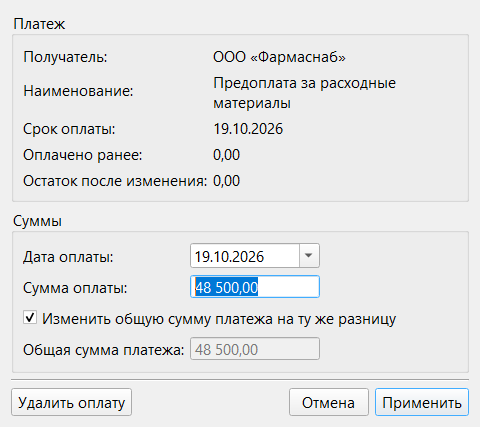
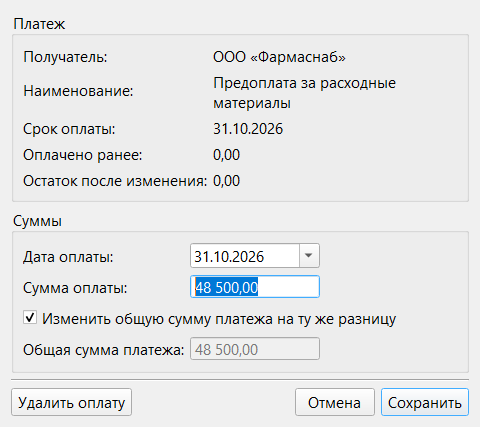
manual: update

Changed region(s): [[0.5938, 0.9133, 0.9062, 0.9742], [0.4375, 0.274, 0.5, 0.3349], [0.4062, 0.5785, 0.4375, 0.6393]]

diff --git a/manual/12-planfact.html b/manual/12-planfact.html
@@ -18,7 +18,7 @@ th { color: #1f3a5f; }
 </head>
 <body>
 <table width="100%" cellspacing="0" cellpadding="0" style="margin-top: 0px; margin-bottom: 10px;"><tr><td style="border-bottom: 1px solid #d9e0e9;" style="border-bottom: 1px solid #d9e0e9;"><h1 id="s1">Раздел 12. План-факт и графики</h1></td></tr></table>
-<p>Кнопка «План-факт» открывает три инструмента: «Финансовый план» (плановые суммы на год), «Исполнение финансового плана» (сравнение плана с оплатами за период) и «Графики» (динамика задолженности и платежная дисциплина). Нажатие на саму кнопку открывает «Исполнение финансового плана».</p>
+<p>Кнопка «План-факт» открывает три инструмента: «Финансовый план» (плановые суммы на год), «Исполнение финансового плана» (сравнение плана с оплатами за период) и «Графики» (динамика задолженности, платежная дисциплина и структура расходов). Нажатие на саму кнопку открывает «Исполнение финансового плана».</p>
 <table width="100%" cellspacing="0" cellpadding="0" style="margin-top: 24px; margin-bottom: 10px;"><tr><td style="border-bottom: 1px solid #d9e0e9;" style="border-bottom: 1px solid #d9e0e9;"><h2 id="s2">Финансовый план</h2></td></tr></table>
 <p>Плановые суммы вводятся по месяцам и статьям.</p>
 <p align="center" style="margin-top: 10px; margin-bottom: 4px; line-height: 100%;"><img alt="Окно «Финансовый план»" src="images/12-planfact/finplan.png" /></p>
@@ -41,7 +41,7 @@ th { color: #1f3a5f; }
 <p align="center" style="margin-top: 0px; margin-bottom: 22px; line-height: 100%;"><span style="color: #6b7280; font-size: 9.5pt;"><em>Рис. 37. Выбор отчёта и периода.</em></span></p>
 <p>Вверху выбирается отчёт: «Исполнение финансового плана» или «Перечень затрат». Период — «За месяц», «За месяцы» или «За период»; начало и конец должны быть в одном году.</p>
 <h3 id="s5">Шаг 2. Сведения о поступлениях</h3>
-<p>Программа не знает остатка на счёте и поступлений: она ведёт только платежи. Поэтому после «Далее» вы вводите эти числа сами.</p>
+<p>Программа не знает остатка на счёте и поступлений: она ведёт только платежи. Поэтому после «Открыть» вы вводите эти числа сами.</p>
 <p align="center" style="margin-top: 10px; margin-bottom: 4px; line-height: 100%;"><img alt="Сведения о поступлениях" src="images/12-planfact/inflow.png" /></p>
 <p align="center" style="margin-top: 0px; margin-bottom: 22px; line-height: 100%;"><span style="color: #6b7280; font-size: 9.5pt;"><em>Рис. 38. Сведения о поступлениях.</em></span></p>
 <p>Числа запоминаются для такого же периода (если введено хотя бы одно ненулевое значение) и подставляются при следующем открытии.</p>
@@ -81,9 +81,9 @@ th { color: #1f3a5f; }
 <h3 id="s7">Перечень затрат</h3>
 <p>Список расходов за период без плана и без шага 2: два столбца, «Сумма» и «Сумма без НДС» (по ставке НДС платежа). Строки разворачиваются так же; скрытые платежи — «Другие».</p>
 <h3 id="s8">Экспорт отчета</h3>
-<p>«Экспорт в XLS» и «Экспорт в PDF» сохраняют таблицу как на экране, <strong>без развёрнутых списков оплат</strong>; PDF нужен установленный Microsoft Excel (как в <a href="11-export.html">разделе 11</a>).</p>
+<p>«Экспорт в Excel» и «Экспорт в PDF» сохраняют таблицу как на экране, <strong>без развёрнутых списков оплат</strong>; PDF нужен установленный Microsoft Excel (как в <a href="11-export.html">разделе 11</a>).</p>
 <table width="100%" cellspacing="0" cellpadding="0" style="margin-top: 24px; margin-bottom: 10px;"><tr><td style="border-bottom: 1px solid #d9e0e9;" style="border-bottom: 1px solid #d9e0e9;"><h2 id="s9">Графики</h2></td></tr></table>
-<p>«Графики» открывает окно «Построить график» с двумя вариантами: «Динамика задолженности» (как менялась сумма неоплаченных платежей и какая её часть просрочена) и «Платежная дисциплина» (насколько вовремя оплачивались платежи, см. ниже).</p>
+<p>«Графики» открывает окно «Построить график или отчет» с тремя вариантами: «Динамика задолженности» (как менялась сумма неоплаченных платежей и какая её часть просрочена), «Платежная дисциплина» (насколько вовремя оплачивались платежи, см. ниже) и «Структура расходов» (на что ушли деньги, см. ниже). Выберите вариант, укажите период и нажмите «Открыть».</p>
 <h3 id="s10">Динамика задолженности</h3>
 <p align="center" style="margin-top: 10px; margin-bottom: 4px; line-height: 100%;"><img alt="График «Задолженность»" src="images/13-charts/debt.png" /></p>
 <p align="center" style="margin-top: 0px; margin-bottom: 22px; line-height: 100%;"><span style="color: #6b7280; font-size: 9.5pt;"><em>Рис. 40. График задолженности за период с 15.08 по 14.10 по всем категориям.</em></span></p>
@@ -136,7 +136,22 @@ th { color: #1f3a5f; }
 </ul>
 <p><strong>Фильтры слева.</strong> Период (задаётся при построении графика, в отчёте только показан), часть названия получателя и категории (если ничего не выбрано — учитываются все). Пункт «Текущая деятельность (все)» выбирает и снимает сразу все категории 1.х. «Сбросить фильтры» очищает получателя, категории и фильтр по столбцу графика. Категории и получатель действуют и на вкладку «Неоплаченные просроченные», период — нет.</p>
 <p><strong>Экспорт в Excel.</strong> Кнопка «Экспорт в Excel...» сохраняет все вкладки в один файл: лист на каждую вкладку плюс листы «Сводка» (период, фильтры, показатели) и «Распределение» (данные графика). Таблицы выгружаются с учётом фильтра по столбцу графика.</p>
-<table width="100%" cellspacing="0" cellpadding="0" style="margin-top: 24px; margin-bottom: 10px;"><tr><td style="border-bottom: 1px solid #d9e0e9;" style="border-bottom: 1px solid #d9e0e9;"><h2 id="s12">Что может пойти не так</h2></td></tr></table>
+<h3 id="s12">Структура расходов</h3>
+<p>Отчёт показывает, на какие категории ушли деньги. Берутся <strong>оплаты</strong> с датой оплаты внутри периода; возвраты вычитаются из сумм своих категорий.</p>
+<p><strong>Что в окне.</strong></p>
+<ul>
+<li><strong>Четыре плитки сверху.</strong> Расходы за период (с числом оплат и суммой возвратов); средний расход в месяц и самый затратный месяц; крупнейшая категория с долей; изменение к прошлому периоду (▲ расходы выросли, ▼ снизились).</li>
+<li><strong>График.</strong> Горизонтальные столбцы по категориям, от большей суммы к меньшей, с суммой и долей от всех расходов. Щелчок по столбцу оставляет в таблицах только эту категорию; повторный щелчок снимает фильтр.</li>
+<li><strong>Вкладки.</strong> «По получателям», «По месяцам» (график с накоплением по категориям и таблица) и «Оплаты» (каждая оплата отдельно, в названии вкладки их число). Двойной щелчок по оплате открывает её платеж.</li>
+</ul>
+<p><strong>Фильтры слева.</strong> Период (задаётся при построении отчёта, здесь только показан), часть названия получателя и категории (если ничего не выбрано — учитываются все). Галочки «Без финансовой деятельности» и «Без инвестиционной деятельности» исключают эти разделы. «Сбросить фильтры» очищает получателя, категории, эти галочки и фильтр по столбцу графика.</p>
+<p><strong>Как показывать.</strong></p>
+<ul>
+<li>«Мелкие категории - в «Прочее»» объединяет категории с долей меньше 2% в один столбец (если таких две и больше); состав виден в подсказке.</li>
+<li>«Сравнить с прошлым периодом» добавляет серые столбцы и столбцы таблиц «Пред. период» и «Изменение». По умолчанию прошлый период — столько же дней (или месяцев) сразу перед выбранным; его даты можно изменить.</li>
+</ul>
+<p><strong>Экспорт в Excel.</strong> Кнопка «Экспорт в Excel...» сохраняет листы «Сводка», «По категориям», «По получателям», «По месяцам» и «Оплаты»; таблицы выгружаются с учётом фильтра по столбцу графика.</p>
+<table width="100%" cellspacing="0" cellpadding="0" style="margin-top: 24px; margin-bottom: 10px;"><tr><td style="border-bottom: 1px solid #d9e0e9;" style="border-bottom: 1px solid #d9e0e9;"><h2 id="s13">Что может пойти не так</h2></td></tr></table>
 <table width="100%" cellspacing="0" cellpadding="8" style="border-collapse: collapse; margin-top: 18px; margin-bottom: 18px;">
 <thead>
 <tr>

diff --git a/manual/13-settings.html b/manual/13-settings.html
@@ -20,7 +20,7 @@ th { color: #1f3a5f; }
 <table width="100%" cellspacing="0" cellpadding="0" style="margin-top: 0px; margin-bottom: 10px;"><tr><td style="border-bottom: 1px solid #d9e0e9;" style="border-bottom: 1px solid #d9e0e9;"><h1 id="s1">Раздел 13. Настройки</h1></td></tr></table>
 <p>Окно «Настройки» открывается кнопкой «Настройки» на панели инструментов. Разделы окна — список слева.</p>
 <ul>
-<li><strong>«ОК»</strong> сохраняет все разделы и сразу применяет их, <strong>«Отмена»</strong> отбрасывает всё. Исключение — перечень должностей: он сохраняется сразу.</li>
+<li><strong>«Сохранить»</strong> сохраняет все разделы и сразу применяет их, <strong>«Отмена»</strong> отбрасывает всё. Исключение — перечень должностей: он сохраняется сразу.</li>
 <li>Настройки синхронизации — в меню кнопки синхронизации (<a href="15-sync.html">раздел 15</a>).</li>
 </ul>
 <table width="100%" cellspacing="0" cellpadding="0" style="margin-top: 6px; margin-bottom: 18px;"><tr><td width="5" bgcolor="#d98a00"></td><td bgcolor="#fff6e3" style="padding: 10px 16px 0px 16px;">
@@ -55,7 +55,7 @@ th { color: #1f3a5f; }
 </tr>
 </tbody>
 </table>
-<p>По умолчанию просроченные платежи выделены красным текстом, сегодняшние — полужирным. Те же цвета попадают в экспорт (<a href="11-export.html">раздел 11</a>).</p>
+<p>У просроченных и сегодняшних платежей цвет текста и жирность применяются только к столбцам «Срок оплаты» и «Остаток», а заливка — ко всей строке. По умолчанию у просроченных платежей эти столбцы красные, у сегодняшних — полужирные. Те же цвета попадают в экспорт (<a href="11-export.html">раздел 11</a>).</p>
 <table width="100%" cellspacing="0" cellpadding="0" style="margin-top: 24px; margin-bottom: 10px;"><tr><td style="border-bottom: 1px solid #d9e0e9;" style="border-bottom: 1px solid #d9e0e9;"><h2 id="s3">Таблица</h2></td></tr></table>
 <p align="center" style="margin-top: 10px; margin-bottom: 4px; line-height: 100%;"><img alt="Раздел «Таблица»" src="images/14-settings/table.png" /></p>
 <p align="center" style="margin-top: 0px; margin-bottom: 22px; line-height: 100%;"><span style="color: #6b7280; font-size: 9.5pt;"><em>Рис. 42. Раздел «Таблица».</em></span></p>
@@ -90,7 +90,7 @@ th { color: #1f3a5f; }
 <p>Календарь нужен для расчёта сроков оплаты (<a href="07-payment-terms.html">раздел 7</a>). Без внесённых дат все будни рабочие, а суббота и воскресенье выходные.</p>
 <ul>
 <li><strong>Год.</strong> Прошлый, текущий и следующий; для каждого года свои списки.</li>
-<li><strong>Списки.</strong> Дата добавляется кнопкой «+», убирается кнопкой «−» или клавишей <strong>Del</strong>. Изменения сохраняются по «ОК».</li>
+<li><strong>Списки.</strong> Дата добавляется кнопкой «+», убирается кнопкой «−» или клавишей <strong>Del</strong>. Изменения сохраняются по «Сохранить».</li>
 <li><strong>Какие дни в какой список.</strong> В «Праздничные» — только будни (Пн–Пт), в «Рабочие банковские» и «Рабочие небанковские» — только Сб и Вс. Одна дата не может быть в двух списках. Что означает каждый список — в <a href="07-payment-terms.html">разделе 7</a>.</li>
 </ul>
 <table width="100%" cellspacing="0" cellpadding="0" style="margin-top: 24px; margin-bottom: 10px;"><tr><td style="border-bottom: 1px solid #d9e0e9;" style="border-bottom: 1px solid #d9e0e9;"><h2 id="s5">Парсер выписки</h2></td></tr></table>
@@ -141,7 +141,7 @@ th { color: #1f3a5f; }
 <h3 id="s8">Должности</h3>
 <p>Должности добавляются, переименовываются и удаляются (<strong>Del</strong>) в выбранном подразделении; название не должно повторяться внутри подразделения.</p>
 <table width="100%" cellspacing="0" cellpadding="0" style="margin-top: 6px; margin-bottom: 18px;"><tr><td width="5" bgcolor="#d98a00"></td><td bgcolor="#fff6e3" style="padding: 10px 16px 0px 16px;">
-<p>⚠ <strong><font color="#d98a00">Внимание.</font></strong> Изменения во вкладке «Должности» сохраняются сразу, «Отмена» их не вернёт. При удалении должности сотрудники теряют привязку к ней и остаются в своём подразделении. Сотрудники, добавленные или изменённые во вкладке «Сотрудники», сохраняются только по «ОК».</p>
+<p>⚠ <strong><font color="#d98a00">Внимание.</font></strong> Изменения во вкладке «Должности» сохраняются сразу, «Отмена» их не вернёт. При удалении должности сотрудники теряют привязку к ней и остаются в своём подразделении. Сотрудники, добавленные или изменённые во вкладке «Сотрудники», сохраняются только по «Сохранить».</p>
 </td></tr></table>
 <table width="100%" cellspacing="0" cellpadding="0" style="margin-top: 24px; margin-bottom: 10px;"><tr><td style="border-bottom: 1px solid #d9e0e9;" style="border-bottom: 1px solid #d9e0e9;"><h2 id="s9">Хранение</h2></td></tr></table>
 <p align="center" style="margin-top: 10px; margin-bottom: 4px; line-height: 100%;"><img alt="Раздел «Хранение»" src="images/14-settings/storage.png" /></p>
@@ -238,7 +238,7 @@ th { color: #1f3a5f; }
 <tr bgcolor="#f7f9fc">
 <td style="border-bottom: 1px solid #d9e0e9;">«Не удалось сохранить данные персонала (подробности см. в логе)»</td>
 <td style="border-bottom: 1px solid #d9e0e9;">Список сотрудников не записался. Остальные настройки к этому моменту уже сохранены</td>
-<td style="border-bottom: 1px solid #d9e0e9;">Нажмите «ОК» ещё раз; если не помогает, обратитесь к ответственному за программу</td>
+<td style="border-bottom: 1px solid #d9e0e9;">Нажмите «Сохранить» ещё раз; если не помогает, обратитесь к ответственному за программу</td>
 </tr>
 <tr>
 <td style="border-bottom: 1px solid #d9e0e9;">«При попытке восстановления произошла ошибка (подробности см. в логе)»</td>

diff --git a/manual/15-sync.html b/manual/15-sync.html
@@ -27,7 +27,7 @@ th { color: #1f3a5f; }
 <p>Изменения доходят до другого пользователя только через общую базу: пока вы их не «отправили», коллега их не увидит.</p>
 <p>Синхронизируется вся база: платежи, оплаты, контрагенты, договоры, финансовый план и исполнение плана, а также «Календарь», «Парсер выписки» и «Персонал» из окна «Настройки» (<a href="13-settings.html">раздел 13</a>). «Отображение», «Таблица», «Хранение» и настройки синхронизации на каждом устройстве свои.</p>
 <table width="100%" cellspacing="0" cellpadding="0" style="margin-top: 24px; margin-bottom: 10px;"><tr><td style="border-bottom: 1px solid #d9e0e9;" style="border-bottom: 1px solid #d9e0e9;"><h2 id="s3">Кнопка синхронизации</h2></td></tr></table>
-<p>Кнопка справа на панели инструментов показывает состояние и запускает синхронизацию. Стрелка справа от неё открывает меню: «Синхронизировать сейчас», «Отказаться от моих изменений…» и «Настройки синхронизации…».</p>
+<p>Кнопка справа на панели инструментов показывает состояние и запускает синхронизацию. Стрелка справа от неё открывает меню: «Синхронизировать сейчас», «Отказаться от моих изменений…», «Показать полученные изменения…» (снова открывает окно с итогом последнего подтягивания или объединения; пока их не было — недоступно) и «Настройки синхронизации…».</p>
 <p align="center" style="margin-top: 10px; margin-bottom: 4px; line-height: 100%;"><img alt="Состояния кнопки синхронизации" src="images/16-sync/button-states.png" /></p>
 <p align="center" style="margin-top: 0px; margin-bottom: 22px; line-height: 100%;"><span style="color: #6b7280; font-size: 9.5pt;"><em>Рис. 51. Состояния кнопки синхронизации: «выключена», «данные актуальны», «есть неотправленные», «нет связи», «КОНФЛИКТ».</em></span></p>
 <p>Если синхронизация выключена, нажатие на кнопку открывает окно настроек. В подсказке видны время последней проверки, дата и автор последней отправки, а при проблеме и её причина.</p>
@@ -124,7 +124,7 @@ th { color: #1f3a5f; }
 <li><strong>По таймеру</strong>: каждые 5 минут по умолчанию (меняется в настройках).</li>
 <li><strong>После паузы в работе</strong>: если вы внесли изменения и минуту (по умолчанию) ничего не нажимали, программа отправляет их.</li>
 <li><strong>Вручную</strong>: кнопка, «Синхронизировать сейчас» или <strong>F5</strong>.</li>
-<li><strong>При закрытии</strong>: если есть неотправленные изменения, программа пробует отправить их перед выходом, при необходимости объединив с изменениями коллеги (см. «Автоматическое объединение»).</li>
+<li><strong>При закрытии</strong>: если есть неотправленные изменения, программа пробует отправить их перед выходом, при необходимости объединив с изменениями коллеги (см. «Автоматическое объединение»). Пока идёт синхронизация, закрыть программу нельзя: в строке состояния появится «Идет синхронизация. Дождитесь её окончания и закройте программу снова».</li>
 </ul>
 <p>Автоматическая синхронизация пропускается, пока открыто окно с вопросом или настройками либо идёт другая синхронизация; попытка повторится при следующей проверке.</p>
 <p>На время синхронизации появляется окно с этапами, а кнопка недоступна. Автоматическая проверка по таймеру и после паузы идёт тихо (в строке состояния «Идет синхронизация...»): окно появляется, только если проверка затянулась больше чем на 3 секунды или нужно скачать общую базу. При медленной сети программа может на несколько секунд перестать отзываться — дождитесь окончания.</p>
@@ -148,7 +148,7 @@ th { color: #1f3a5f; }
 <h4 id="s10">Автоматическое объединение</h4>
 <p>Программа объединяет изменения без вашего участия, если выполнены оба условия:</p>
 <ol>
-<li>С последней синхронизации вы меняли только <strong>платежи и оплаты, контрагентов, договоры и документы (вместе со сроками оплаты), финансовый план и исполнение плана</strong>. Если вы меняли «Календарь», «Парсер выписки» или «Персонал» в настройках (<a href="13-settings.html">раздел 13</a>), объединить автоматически нельзя. Изменения коллеги при этом могут быть любыми.</li>
+<li>С последней синхронизации вы меняли только <strong>платежи и оплаты, контрагентов, договоры и документы (вместе со сроками оплаты), финансовый план и исполнение плана</strong>, а также «Календарь» и «Парсер выписки» в настройках (<a href="13-settings.html">раздел 13</a>). Если вы меняли «Персонал», объединить автоматически нельзя. Изменения коллеги при этом могут быть любыми.</li>
 <li>Вы и коллега не изменили <strong>одно и то же поле</strong> одной и той же записи. Если вы поменяли сумму платежа, а коллега у этого же платежа поменял заметку, это не пересечение. Если же оба поменяли сумму, это уже конфликт.</li>
 </ol>
 <p>Конфликтом также считается, если:</p>

diff --git a/manual/02-main-window.html b/manual/02-main-window.html
@@ -23,7 +23,7 @@ th { color: #1f3a5f; }
 <p align="center" style="margin-top: 10px; margin-bottom: 4px; line-height: 100%;"><img alt="Главное окно с пронумерованными выносками" src="images/03-main-window/overview.png" /></p>
 <p align="center" style="margin-top: 0px; margin-bottom: 22px; line-height: 100%;"><span style="color: #6b7280; font-size: 9.5pt;"><em>Рис. 3. Главное окно: 1 — панель инструментов; 2 — поле поиска; 3 — кнопка синхронизации; 4 — боковая панель; 5 — таблица платежей; 6 — панель сведений; 7 — строка состояния.</em></span></p>
 <table width="100%" cellspacing="0" cellpadding="0" style="margin-top: 24px; margin-bottom: 10px;"><tr><td style="border-bottom: 1px solid #d9e0e9;" style="border-bottom: 1px solid #d9e0e9;"><h2 id="s3">Панель инструментов</h2></td></tr></table>
-<p>Пять кнопок открывают меню: у «Копии», «Договоров», «Сверки» и «План-факта» — по стрелке справа (сама кнопка выполняет главную команду), у «Вида» — по нажатию.</p>
+<p>Пять кнопок открывают меню: у «Копии», «Договора», «Сверки» и «План-факта» — по стрелке справа (сама кнопка выполняет главную команду), у «Вида» — по нажатию. «Вид», «Настройки» и «Справка» показаны значками без подписи; название видно в подсказке.</p>
 <table width="100%" cellspacing="0" cellpadding="8" style="border-collapse: collapse; margin-top: 18px; margin-bottom: 18px;">
 <thead>
 <tr>
@@ -59,8 +59,8 @@ th { color: #1f3a5f; }
 <td style="border-bottom: 1px solid #d9e0e9;"><a href="03-event-dialog.html">Раздел 3</a></td>
 </tr>
 <tr>
-<td style="border-bottom: 1px solid #d9e0e9;">«Договоры»</td>
-<td style="border-bottom: 1px solid #d9e0e9;">Кнопка — «Контрагенты и договоры»; в меню по стрелке ещё «Ежемесячные платежи»</td>
+<td style="border-bottom: 1px solid #d9e0e9;">«Договор»</td>
+<td style="border-bottom: 1px solid #d9e0e9;">Кнопка — «Договоры и контрагенты»; в меню по стрелке ещё «Ежемесячные платежи»</td>
 <td style="border-bottom: 1px solid #d9e0e9;"><strong>Ctrl+K</strong>, <strong>Ctrl+Shift+K</strong></td>
 <td style="border-bottom: 1px solid #d9e0e9;">Разделы <a href="06-contractors.html">6</a> и <a href="08-monthly.html">8</a></td>
 </tr>
@@ -103,10 +103,10 @@ th { color: #1f3a5f; }
 </tbody>
 </table>
 <p align="center" style="margin-top: 10px; margin-bottom: 4px; line-height: 100%;"><img alt="Панель инструментов" src="images/03-main-window/toolbar.png" /></p>
-<p align="center" style="margin-top: 0px; margin-bottom: 22px; line-height: 100%;"><span style="color: #6b7280; font-size: 9.5pt;"><em>Рис. 4. Панель инструментов. Меню раскрываются у кнопок: 1 — «Копия» (по стрелке), 2 — «Договоры» (по стрелке), 3 — «Сверка» (по стрелке), 4 — «План-факт» (по стрелке), 5 — «Вид».</em></span></p>
+<p align="center" style="margin-top: 0px; margin-bottom: 22px; line-height: 100%;"><span style="color: #6b7280; font-size: 9.5pt;"><em>Рис. 4. Панель инструментов. Меню раскрываются у кнопок: 1 — «Копия» (по стрелке), 2 — «Договор» (по стрелке), 3 — «Сверка» (по стрелке), 4 — «План-факт» (по стрелке), 5 — «Вид».</em></span></p>
 <p align="center" style="margin-top: 10px; margin-bottom: 4px; line-height: 100%;"><img alt="Меню кнопок панели инструментов" src="images/03-main-window/toolbar-menus.png" /></p>
 <p align="center" style="margin-top: 0px; margin-bottom: 22px; line-height: 100%;"><span style="color: #6b7280; font-size: 9.5pt;"><em>Рис. 5. Меню кнопок. В меню «Вид» включённые пункты обведены рамкой вокруг значка.</em></span></p>
-<p>Кнопка синхронизации показывает состояние; меню по стрелке: «Синхронизировать сейчас», «Отказаться от моих изменений…», «Настройки синхронизации…» (<a href="15-sync.html">раздел 15</a>).</p>
+<p>Кнопка синхронизации показывает состояние; меню по стрелке: «Синхронизировать сейчас», «Отказаться от моих изменений…», «Показать полученные изменения…» (снова открывает окно с итогом последнего подтягивания или объединения; пока их не было — недоступно), «Настройки синхронизации…» (<a href="15-sync.html">раздел 15</a>).</p>
 <p>Все горячие клавиши собраны в <a href="P3-hotkeys.html">приложении 3</a>.</p>
 <table width="100%" cellspacing="0" cellpadding="0" style="margin-top: 24px; margin-bottom: 10px;"><tr><td style="border-bottom: 1px solid #d9e0e9;" style="border-bottom: 1px solid #d9e0e9;"><h2 id="s4">Боковая панель</h2></td></tr></table>
 <p>Кнопка «Сбросить фильтры» (<strong>Ctrl+R</strong>), поиск (<strong>Ctrl+F</strong>) и группы фильтров: «СРОК ОПЛАТЫ», «ПЕРИОД», «КАТЕГОРИЯ», «ОТВЕТСТВЕННЫЙ», флажок «ОПЛАТА СЕГОДНЯ». Подробнее — в <a href="05-filters.html">разделе 5</a>.</p>
@@ -133,11 +133,11 @@ th { color: #1f3a5f; }
 </thead>
 <tbody>
 <tr>
-<td style="border-bottom: 1px solid #d9e0e9;">Красный текст</td>
+<td style="border-bottom: 1px solid #d9e0e9;">Красные срок оплаты и остаток</td>
 <td style="border-bottom: 1px solid #d9e0e9;">Платеж <strong>просрочен</strong>: срок оплаты раньше сегодняшнего дня, а платеж считается неоплаченным</td>
 </tr>
 <tr bgcolor="#f7f9fc">
-<td style="border-bottom: 1px solid #d9e0e9;">Полужирный текст</td>
+<td style="border-bottom: 1px solid #d9e0e9;">Полужирные срок оплаты и остаток</td>
 <td style="border-bottom: 1px solid #d9e0e9;">Срок оплаты <strong>сегодня</strong>, а платеж считается неоплаченным</td>
 </tr>
 <tr>

diff --git a/manual/14-backup.html b/manual/14-backup.html
@@ -21,7 +21,7 @@ th { color: #1f3a5f; }
 <p>Программа сама сохраняет копии базы, и из любой из них можно вернуть данные: после ошибочного удаления, неудачной правки или повреждения файла.</p>
 <table width="100%" cellspacing="0" cellpadding="0" style="margin-top: 24px; margin-bottom: 10px;"><tr><td style="border-bottom: 1px solid #d9e0e9;" style="border-bottom: 1px solid #d9e0e9;"><h2 id="s2">Автоматические копии</h2></td></tr></table>
 <ul>
-<li><strong>Когда.</strong> Одна копия при каждом запуске, до первой синхронизации.</li>
+<li><strong>Когда.</strong> Одна копия при каждом запуске, до первой синхронизации. Если данные не изменились с прошлой копии, новая копия удаляется как точный дубликат.</li>
 <li><strong>Где.</strong> Папка задаётся в «Настройки» → «Хранение» (рис. 46 в <a href="13-settings.html">разделе 13</a>). По умолчанию это <code>data\backup</code> рядом с программой.</li>
 <li><strong>Название.</strong> <code>backup_ГГГГММДД-ЧЧММСС.db</code>.</li>
 <li><strong>Сколько хранятся.</strong> «1 месяц» (по умолчанию), «6 месяцев» или «никогда» (тогда папка растёт: чистите её сами). Старые копии удаляются при запуске, перед созданием новой.</li>
@@ -47,12 +47,12 @@ th { color: #1f3a5f; }
 <tr bgcolor="#f7f9fc">
 <td style="border-bottom: 1px solid #d9e0e9;"><code>before_sync_…</code></td>
 <td style="border-bottom: 1px solid #d9e0e9;">Перед тем, как программа заменила локальную копию общей базой с изменениями другого пользователя (<a href="15-sync.html">раздел 15</a>)</td>
-<td style="border-bottom: 1px solid #d9e0e9;">Да</td>
+<td style="border-bottom: 1px solid #d9e0e9;">Через 90 дней</td>
 </tr>
 <tr>
 <td style="border-bottom: 1px solid #d9e0e9;"><code>before_restore_…</code></td>
 <td style="border-bottom: 1px solid #d9e0e9;">Перед восстановлением из копии в «Настройки» → «Хранение». В копии текущие данные</td>
-<td style="border-bottom: 1px solid #d9e0e9;">Да</td>
+<td style="border-bottom: 1px solid #d9e0e9;">Через 90 дней</td>
 </tr>
 <tr bgcolor="#f7f9fc">
 <td style="border-bottom: 1px solid #d9e0e9;"><code>conflict_…</code></td>
@@ -76,7 +76,7 @@ th { color: #1f3a5f; }
 </tr>
 </tbody>
 </table>
-<p>Копии <code>before_sync_</code>, <code>before_restore_</code>, <code>conflict_</code>, <code>discarded_</code>, <code>db_corrupt_</code> и <code>before_migration_</code> всегда сохраняются в <code>data\backup</code>. Служебные копии (кроме <code>before_migration_</code>) старше 90 дней удаляются при запуске, перед созданием новой копии. Если выбранная папка копий не <code>data\backup</code>, <code>before_sync_</code> и <code>before_restore_</code> удаляются только по этому сроку.</p>
+<p>Копии <code>before_sync_</code>, <code>before_restore_</code>, <code>conflict_</code>, <code>discarded_</code>, <code>db_corrupt_</code> и <code>before_migration_</code> всегда сохраняются в <code>data\backup</code>. Служебные копии (кроме <code>before_migration_</code>) старше 90 дней удаляются при запуске, перед созданием новой копии; если срок хранения в «Настройки» → «Хранение» больше («6 месяцев», «никогда»), действует он.</p>
 <p>Копии самой общей базы хранятся отдельно, в облаке или общей папке (<a href="15-sync.html">раздел 15</a>).</p>
 <table width="100%" cellspacing="0" cellpadding="0" style="margin-top: 24px; margin-bottom: 10px;"><tr><td style="border-bottom: 1px solid #d9e0e9;" style="border-bottom: 1px solid #d9e0e9;"><h2 id="s3">Если копию создать не удалось</h2></td></tr></table>
 <p>В строке состояния появится красная надпись.</p>
@@ -131,7 +131,7 @@ th { color: #1f3a5f; }
 <td style="border-bottom: 1px solid #d9e0e9;">Проверьте папку в «Настройки» → «Хранение»</td>
 </tr>
 <tr>
-<td style="border-bottom: 1px solid #d9e0e9;">«Папка для резервного копирования не указана или указана неверно» при нажатии «ОК» в настройках</td>
+<td style="border-bottom: 1px solid #d9e0e9;">«Папка для резервного копирования не указана или указана неверно» при нажатии «Сохранить» в настройках</td>
 <td style="border-bottom: 1px solid #d9e0e9;">Папки нет</td>
 <td style="border-bottom: 1px solid #d9e0e9;">Выберите существующую папку кнопкой «Изменить»</td>
 </tr>

diff --git a/manual/09-statement-matching.html b/manual/09-statement-matching.html
@@ -118,7 +118,7 @@ th { color: #1f3a5f; }
 <p>В строке — суммы из выписки и календаря, «Разница» (выписка минус календарь) и «Совпадение». Обычно оплата внесена с опечаткой или банк списал немного другую сумму (например, с учётом комиссии).</p>
 <p>Что можно сделать:</p>
 <ol>
-<li><strong>Сравнить строки.</strong> Если это одна и та же операция, а верна сумма из выписки, нажмите <strong>«Принять сумму»</strong>. Откроется окно «Изменение оплаты» (рис. 28) с суммой из выписки: проверьте и нажмите «Применить».</li>
+<li><strong>Сравнить строки.</strong> Если это одна и та же операция, а верна сумма из выписки, нажмите <strong>«Принять сумму»</strong>. Откроется окно «Изменение оплаты» (рис. 28) с суммой из выписки: проверьте и нажмите «Сохранить».</li>
 <li>Остальное — в меню «Ещё»:<ul>
 <li>«Сверено, суммы не менять» — операция одна, расхождение объяснимо (например, из суммы вычтена комиссия): записи считаются связанными;</li>
 <li>«Это не пара» — эти две записи больше не предлагаются вместе, каждая возвращается в свой список;</li>
@@ -131,7 +131,7 @@ th { color: #1f3a5f; }
 <p>Окно показывает платеж и <strong>«Оплачено ранее»</strong> и пересчитывает <strong>«Остаток после изменения»</strong>. Флажок <strong>«Изменить общую сумму платежа на ту же разницу»</strong> включён по умолчанию: общая сумма меняется на столько же, на сколько оплата, и остаток платежа не меняется; без флажка общую сумму вы вводите сами. Дату оплаты тоже можно изменить.</p>
 <p>Кнопка <strong>«Удалить оплату»</strong> удаляет оплату (например, внесённую по ошибке). Остаток платежа вырастет на её сумму, сам платеж остаётся.</p>
 <table width="100%" cellspacing="0" cellpadding="0" style="margin-top: 6px; margin-bottom: 18px;"><tr><td width="5" bgcolor="#d98a00"></td><td bgcolor="#fff6e3" style="padding: 10px 16px 0px 16px;">
-<p>⚠ <strong><font color="#d98a00">Внимание.</font></strong> «Применить» сразу записывает новые суммы; отмены нет — верните суммы вручную (разделы <a href="03-event-dialog.html">3</a> и <a href="04-payment.html">4</a>). «Отмена» ничего не меняет.</p>
+<p>⚠ <strong><font color="#d98a00">Внимание.</font></strong> «Сохранить» сразу записывает новые суммы; отмены нет — верните суммы вручную (разделы <a href="03-event-dialog.html">3</a> и <a href="04-payment.html">4</a>). «Отмена» ничего не меняет.</p>
 </td></tr></table>
 <h3 id="s10">Только в выписке</h3>
 <p>В выписке есть списание, а в календаре на эту дату оплаты на такую сумму нет: оплата не внесена, внесена другой датой или суммой, либо платежа в календаре нет совсем.</p>
@@ -240,7 +240,7 @@ th { color: #1f3a5f; }
 </tr>
 <tr bgcolor="#f7f9fc">
 <td style="border-bottom: 1px solid #d9e0e9;">«Не удалось изменить оплату (подробности см. в логе)»</td>
-<td style="border-bottom: 1px solid #d9e0e9;">«Применить» в окне «Изменение оплаты» не смогла записать изменения</td>
+<td style="border-bottom: 1px solid #d9e0e9;">«Сохранить» в окне «Изменение оплаты» не смогла записать изменения</td>
 <td style="border-bottom: 1px solid #d9e0e9;">Повторите; если не получилось, исправьте сумму вручную</td>
 </tr>
 <tr>

diff --git a/manual/P2-startup-data.html b/manual/P2-startup-data.html
@@ -124,26 +124,31 @@ th { color: #1f3a5f; }
 <td style="border-bottom: 1px solid #d9e0e9;">Закройте другие окна программы и запустите её снова</td>
 </tr>
 <tr bgcolor="#f7f9fc">
+<td style="border-bottom: 1px solid #d9e0e9;">«Программа уже запущена. Закройте другое окно программы и повторите запуск.»</td>
+<td style="border-bottom: 1px solid #d9e0e9;">Эта программа уже открыта (в том числе в версии для просмотра). Второе окно закроется</td>
+<td style="border-bottom: 1px solid #d9e0e9;">Найдите и закройте открытое окно, затем запустите программу снова</td>
+</tr>
+<tr>
 <td style="border-bottom: 1px solid #d9e0e9;">«База данных создана более новой версией программы. Обновите программу»</td>
 <td style="border-bottom: 1px solid #d9e0e9;">Базу открывали более новой версией программы, чем у вас. Программа закроется</td>
 <td style="border-bottom: 1px solid #d9e0e9;">Обновите программу (<a href="16-update.html">раздел 16</a>) или возьмите новую версию у коллеги</td>
 </tr>
-<tr>
+<tr bgcolor="#f7f9fc">
 <td style="border-bottom: 1px solid #d9e0e9;">«Не удалось обновить структуру базы данных до версии этой программы. Файл базы данных не изменён, программа будет закрыта. Передайте разработчику файлы из папки логов (подробности см. в логе)»</td>
 <td style="border-bottom: 1px solid #d9e0e9;">После обновления программы базу не удалось подготовить к работе. Данные остались как были, программа закроется</td>
 <td style="border-bottom: 1px solid #d9e0e9;">Сообщите ответственному за программу, и приложите журнал работы (в окне есть кнопка «Открыть папку логов»)</td>
 </tr>
-<tr bgcolor="#f7f9fc">
+<tr>
 <td style="border-bottom: 1px solid #d9e0e9;">«Не удалось открыть базу данных (подробности см. в логе)»</td>
 <td style="border-bottom: 1px solid #d9e0e9;">База есть, но открыть её не получилось. Программа закроется</td>
 <td style="border-bottom: 1px solid #d9e0e9;">Запустите программу ещё раз. Если не помогает, сообщите ответственному за программу, и приложите журнал работы; данные можно вернуть из резервной копии</td>
 </tr>
-<tr>
+<tr bgcolor="#f7f9fc">
 <td style="border-bottom: 1px solid #d9e0e9;">«Включите синхронизацию в настройках, чтобы загрузить базу с сервера» после «Загрузить с сервера синхронизации»</td>
 <td style="border-bottom: 1px solid #d9e0e9;">В окне «Настройки синхронизации» не включён пункт «Включить синхронизацию»</td>
 <td style="border-bottom: 1px solid #d9e0e9;">Нажмите кнопку ещё раз, включите синхронизацию и укажите данные подключения</td>
 </tr>
-<tr bgcolor="#f7f9fc">
+<tr>
 <td style="border-bottom: 1px solid #d9e0e9;">«Не удалось загрузить базу данных с сервера: …»</td>
 <td style="border-bottom: 1px solid #d9e0e9;">После двоеточия указана причина</td>
 <td style="border-bottom: 1px solid #d9e0e9;">Причины и действия — в таблице «Что может пойти не так» <a href="15-sync.html">раздела 15</a></td>

diff --git a/manual/P3-hotkeys.html b/manual/P3-hotkeys.html
@@ -20,7 +20,7 @@ th { color: #1f3a5f; }
 <table width="100%" cellspacing="0" cellpadding="0" style="margin-top: 0px; margin-bottom: 10px;"><tr><td style="border-bottom: 1px solid #d9e0e9;" style="border-bottom: 1px solid #d9e0e9;"><h1 id="s1">Приложение 3. Горячие клавиши</h1></td></tr></table>
 <p>Сочетания в руководстве указаны для Windows.</p>
 <table width="100%" cellspacing="0" cellpadding="0" style="margin-top: 6px; margin-bottom: 18px;"><tr><td width="5" bgcolor="#8a8f98"></td><td bgcolor="#f1f2f4" style="padding: 10px 16px 0px 16px;">
-<p>🍎 <strong><font color="#8a8f98">macOS:</font></strong> во всех сочетаниях вместо <strong>Ctrl</strong> нажимайте <strong>Cmd</strong> (<strong>Cmd+N</strong>, <strong>Cmd+C</strong> и т. д.). Клавиша <strong>Del</strong> на Mac — <strong>Fn+⌫</strong>. На ноутбуке для <strong>F2</strong> может понадобиться <strong>Fn</strong>. Сочетания <strong>Alt</strong> + буква на Mac не работают.</p>
+<p>🍎 <strong><font color="#8a8f98">macOS:</font></strong> во всех сочетаниях вместо <strong>Ctrl</strong> нажимайте <strong>Cmd</strong> (<strong>Cmd+N</strong>, <strong>Cmd+C</strong> и т. д.). Вместо <strong>Del</strong> удаляйте клавишей <strong>⌫</strong>. Дополнительные сочетания: <strong>Cmd+Enter</strong> — «Изменить», <strong>Cmd+Shift+R</strong> — «Синхронизировать сейчас», <strong>Cmd+?</strong> — справка. На ноутбуке для <strong>F2</strong> может понадобиться <strong>Fn</strong>. Сочетания <strong>Alt</strong> + буква на Mac не работают.</p>
 </td></tr></table>
 <table width="100%" cellspacing="0" cellpadding="0" style="margin-top: 24px; margin-bottom: 10px;"><tr><td style="border-bottom: 1px solid #d9e0e9;" style="border-bottom: 1px solid #d9e0e9;"><h2 id="s2">Главное окно</h2></td></tr></table>
 <table width="100%" cellspacing="0" cellpadding="8" style="border-collapse: collapse; margin-top: 18px; margin-bottom: 18px;">
@@ -93,7 +93,7 @@ th { color: #1f3a5f; }
 </tr>
 <tr bgcolor="#f7f9fc">
 <td style="border-bottom: 1px solid #d9e0e9;"><strong>Ctrl+K</strong></td>
-<td style="border-bottom: 1px solid #d9e0e9;">«Контрагенты и договоры»</td>
+<td style="border-bottom: 1px solid #d9e0e9;">«Договоры и контрагенты»</td>
 </tr>
 <tr>
 <td style="border-bottom: 1px solid #d9e0e9;"><strong>Ctrl+Shift+K</strong></td>
@@ -190,7 +190,7 @@ th { color: #1f3a5f; }
 <tr bgcolor="#f7f9fc">
 <td style="border-bottom: 1px solid #d9e0e9;">«Новый платеж», «Редактирование платежа», «Копирование платежа с новым основанием»</td>
 <td style="border-bottom: 1px solid #d9e0e9;"><strong>Ctrl+Enter</strong></td>
-<td style="border-bottom: 1px solid #d9e0e9;">Нажать основную кнопку («Создать», «Применить»), даже если курсор в многострочном поле, где обычный <strong>Enter</strong> переводит строку</td>
+<td style="border-bottom: 1px solid #d9e0e9;">Нажать основную кнопку («Создать», «Сохранить»), даже если курсор в многострочном поле, где обычный <strong>Enter</strong> переводит строку</td>
 </tr>
 <tr>
 <td style="border-bottom: 1px solid #d9e0e9;">«Новый платеж», «Редактирование платежа», «Копирование платежа с новым основанием»</td>

diff --git a/manual/06-contractors.html b/manual/06-contractors.html
@@ -99,7 +99,7 @@ th { color: #1f3a5f; }
 <p align="center" style="margin-top: 10px; margin-bottom: 4px; line-height: 100%;"><img alt="Панель договора в окне платежа" src="images/07-contractors/contract-panel.png" /></p>
 <p align="center" style="margin-top: 0px; margin-bottom: 22px; line-height: 100%;"><span style="color: #6b7280; font-size: 9.5pt;"><em>Рис. 22. Панель договора. 1 — контрагент, 2 — договор, 3 — документ, 4 — кнопка привязки, 5 — условия оплаты, 6 — дата возникновения и отчетный месяц, 7 — расчетная дата, 8 — «← Подставить срок оплаты», 9 — «← Заполнить поля из договора», 10 — «Сохранить поля в договор →».</em></span></p>
 <p>В панели выберите контрагента (1; названия, которого нет в списке, программа не принимает), договор (2; подставляется автоматически — проверьте) и документ (3), нажмите «Привязать к документу» (4) и сохраните платеж: «Отмена» привязку отменяет.</p>
-<p><strong>Отвязать платеж:</strong> ✕ в строке «Договор» окна платежа, затем «Применить». Документ остаётся в справочнике.</p>
+<p><strong>Отвязать платеж:</strong> ✕ в строке «Договор» окна платежа, затем «Сохранить». Документ остаётся в справочнике.</p>
 <p>Условия оплаты (5), расчетная дата (7) и кнопки (8–10) появляются, когда выбран документ.</p>
 <table width="100%" cellspacing="0" cellpadding="0" style="margin-top: 24px; margin-bottom: 10px;"><tr><td style="border-bottom: 1px solid #d9e0e9;" style="border-bottom: 1px solid #d9e0e9;"><h2 id="s11">Расчетная дата и кнопка «← Подставить срок оплаты»</h2></td></tr></table>
 <p>Для выбранного документа панель показывает расчетный срок оплаты (7); «—», если расчёт невозможен («Предоплата / Срок явно не определён» или мало данных). Исходные данные (6):</p>

diff --git a/manual/03-event-dialog.html b/manual/03-event-dialog.html
@@ -22,7 +22,7 @@ th { color: #1f3a5f; }
 <table width="100%" cellspacing="0" cellpadding="0" style="margin-top: 24px; margin-bottom: 10px;"><tr><td style="border-bottom: 1px solid #d9e0e9;" style="border-bottom: 1px solid #d9e0e9;"><h2 id="s2">Как открыть окно платежа</h2></td></tr></table>
 <p>Команды «Новый платеж», «Копировать платеж», «Копировать платеж с новым основанием», «Редактировать платеж» и «Удалить платеж» — на панели инструментов и в контекстном меню таблицы; клавиши — в <a href="P3-hotkeys.html">приложении 3</a>.</p>
 <table width="100%" cellspacing="0" cellpadding="0" style="margin-top: 24px; margin-bottom: 10px;"><tr><td style="border-bottom: 1px solid #d9e0e9;" style="border-bottom: 1px solid #d9e0e9;"><h2 id="s3">Окно платежа</h2></td></tr></table>
-<p>Для нового платежа и копии окно называется «Новый платеж» (кнопка «Создать»), для существующего — «Редактирование платежа» (кнопка «Применить»).</p>
+<p>Для нового платежа и копии окно называется «Новый платеж» (кнопка «Создать»), для существующего — «Редактирование платежа» (кнопка «Сохранить»).</p>
 <p align="center" style="margin-top: 10px; margin-bottom: 4px; line-height: 100%;"><img alt="Окно «Новый платеж» с пронумерованными выносками" src="images/04-event-dialog/new-dialog.png" /></p>
 <p align="center" style="margin-top: 0px; margin-bottom: 22px; line-height: 100%;"><span style="color: #6b7280; font-size: 9.5pt;"><em>Рис. 11. Окно нового платежа.</em></span></p>
 <table width="100%" cellspacing="0" cellpadding="8" style="border-collapse: collapse; margin-top: 18px; margin-bottom: 18px;">

diff --git a/manual/08-monthly.html b/manual/08-monthly.html
@@ -32,7 +32,7 @@ th { color: #1f3a5f; }
 </ul>
 <p>Архивные контрагенты и договоры в перечень не попадают.</p>
 <table width="100%" cellspacing="0" cellpadding="0" style="margin-top: 24px; margin-bottom: 10px;"><tr><td style="border-bottom: 1px solid #d9e0e9;" style="border-bottom: 1px solid #d9e0e9;"><h2 id="s3">Перечень</h2></td></tr></table>
-<p>Откройте его кнопкой «Договоры» → стрелка → «Ежемесячные платежи» или клавишами <strong>Ctrl+Shift+K</strong>. Стрелками рядом с названием месяца (или <strong>Ctrl+←</strong>, <strong>Ctrl+→</strong>) выбирается месяц, за который смотрим платежи.</p>
+<p>Откройте его кнопкой «Договор» → стрелка → «Ежемесячные платежи» или клавишами <strong>Ctrl+Shift+K</strong>. Стрелками рядом с названием месяца (или <strong>Ctrl+←</strong>, <strong>Ctrl+→</strong>) выбирается месяц, за который смотрим платежи.</p>
 <p align="center" style="margin-top: 10px; margin-bottom: 4px; line-height: 100%;"><img alt="Окно «Ежемесячные платежи»" src="images/17-monthly/monthly-dialog.png" /></p>
 <p align="center" style="margin-top: 0px; margin-bottom: 22px; line-height: 100%;"><span style="color: #6b7280; font-size: 9.5pt;"><em>Рис. 25. Окно «Ежемесячные платежи».</em></span></p>
 <ul>
